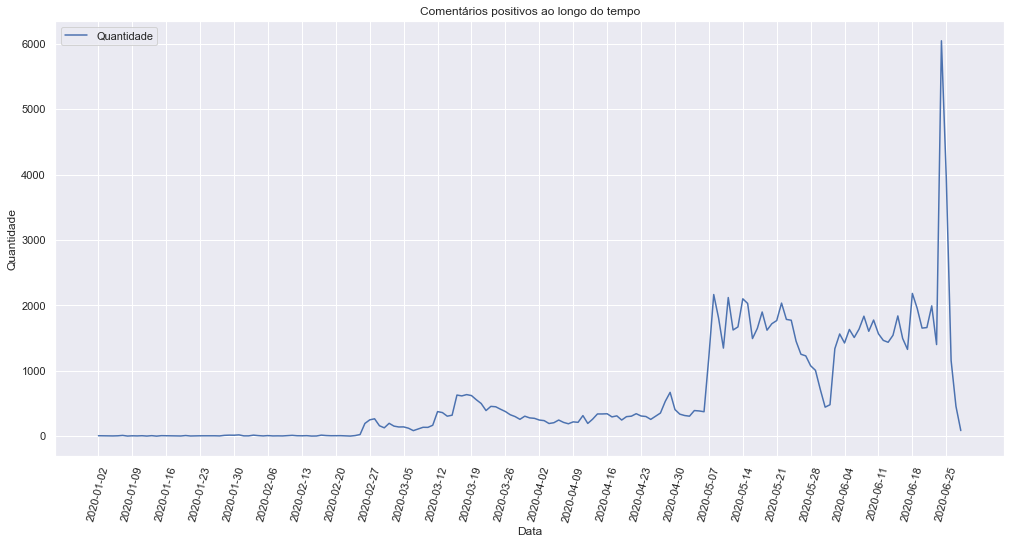
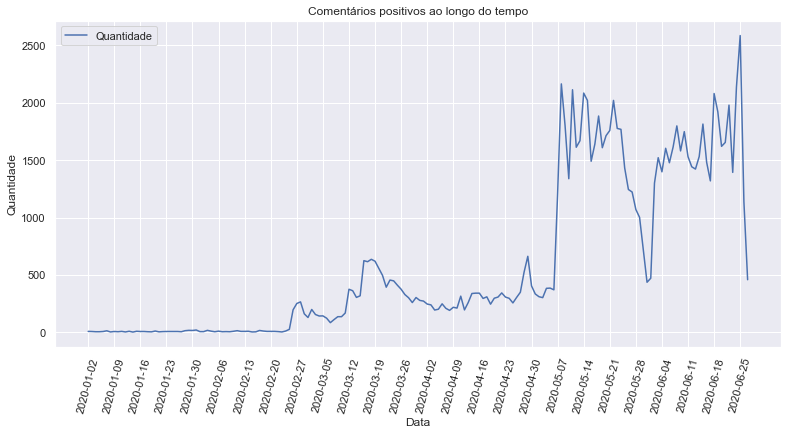
Atualização das imagens

diff --git a/README.md b/README.md
@@ -215,17 +215,17 @@ Após a classificação dos comentários, e já considerando a variação dos ca
 Abaixo, são apresentados alguns dados agregados existentes na base e suas porcentagens respectivas ao totais, assim como a nuvem de palavras (contendo as principais palavras) de todos os comentários.
 
 ```
-Comentários                : 398001   100%
-Comentários positivos      : 132631    33%
-Comentários negativos      : 265370    67%
-Comentários geolocalizados : 124159    31%
+Qtde. de Comentários                : 384281  100%
+Qtde. de Comentários positivos      : 125135   33%
+Qtde. de Comentários negativos      : 259146   67%
+Qtde. de Comentários geolocalizados : 122268   32%
 --------------------------------------------------
-Usuários geolocalizados    : 88766    100%
-Usuários em SP             : 17539     20%
-Usuários em RJ             : 18260     21%
-Usuários em MG             :  6341      7%
-Usuários em BA             :  2311      3%
-Usuários em AM             :  1773      2%
+Qtde. de Usuários geolocalizados    : 88039   100%
+Qtde. de Usuários em SP             : 17349    20%
+Qtde. de Usuários em RJ             : 18145    21%
+Qtde. de Usuários em MG             :  6289     7%
+Qtde. de Usuários em BA             :  2289     3%
+Qtde. de Usuários em AM             :  1759     2%
 ```
 
 ![Figure 2. Nuvem de palavras dos comentários](imagens/nuvem_palavras.png)
@@ -234,7 +234,7 @@ Uma análise exploratória inicial mostra a evolução dos comentários positivo
 
 ![Figure 3. Comentários positivos ao longo do tempo](imagens/comentarios_positivos.png)
 
-É possível observar um aumento no número de comentários positivos logo no início do mês de Maio. Não foi possível determinar a causa desse aumento, muito embora existam, a princípio, duas possibilidades: 1. A coleta de comentários foi limitada de alguma forma, e não alcançou comentários feitos há mais tempo; 2. Os comentários do Twitter passaram a ser feitos com maior intensidade a partir do início de Maio. Essas possibilidades serão mencionadas na seção Trabalhos Futuros.
+É possível observar um aumento no número de comentários positivos logo no início do mês de Maio e um grande pico próximo ao final da análise. Não foi possível determinar as causas desses aumentos, muito embora existam, a princípio, duas possibilidades: 1. A coleta de comentários foi limitada de alguma forma, e não alcançou comentários feitos há mais tempo; 2. Os comentários do Twitter passaram a ser feitos com maior intensidade a partir do início de Maio. Essas possibilidades serão mencionadas na seção Trabalhos Futuros.
 
 Já a figura abaixo exibe o total de comentários classificados como positivos por estado. Os dois estados com mais comentários positivos são Rio de Janeiro e São Paulo, ambos com um alto número de casos da doença.
 
